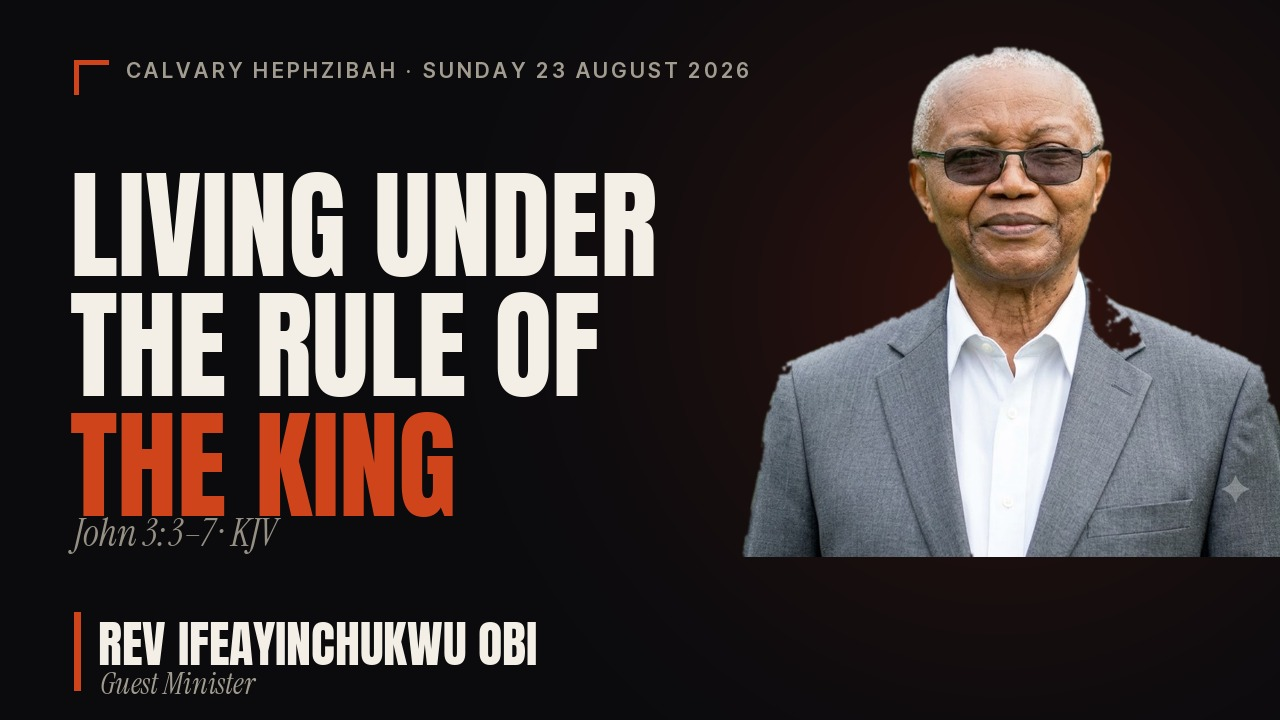
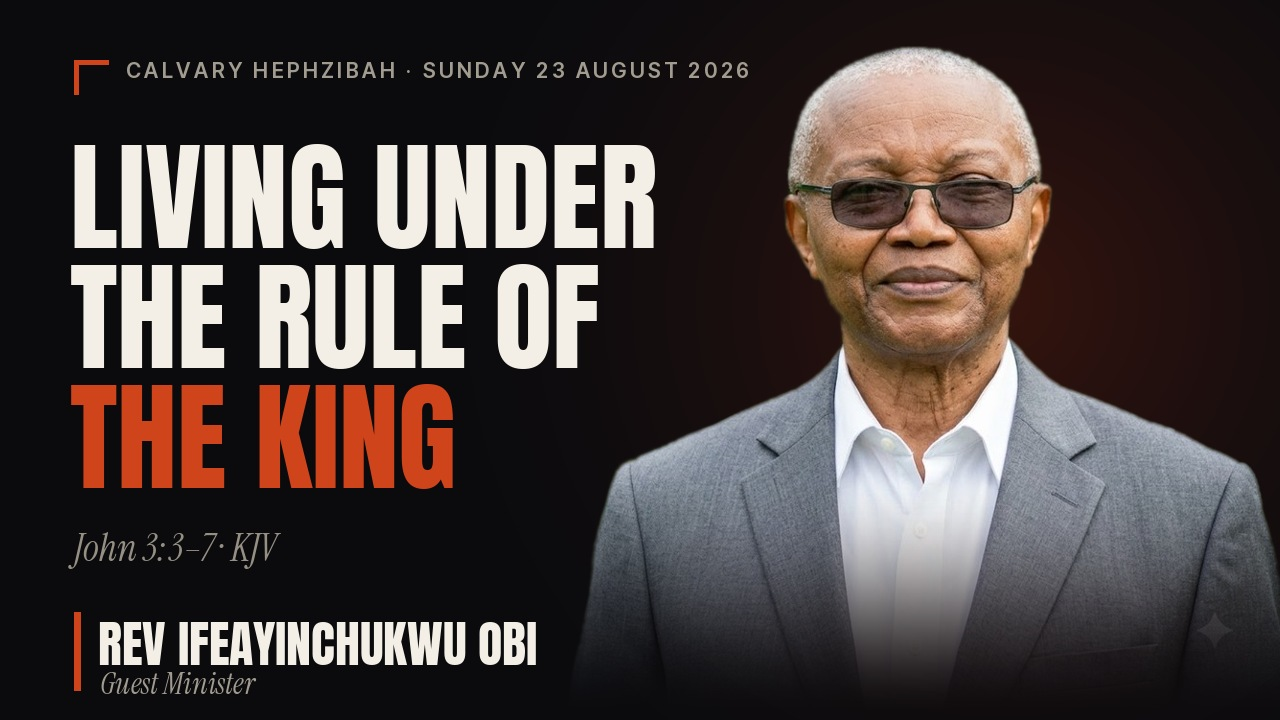
23 Aug 2026: Rework sermon thumbnail — fix scrubbed lapel, fade portrait to base, open up title/scripture gap

diff --git a/media-briefing-23-aug-2026.html b/media-briefing-23-aug-2026.html
@@ -10,8 +10,8 @@
     <meta property="og:site_name" content="Calvary Hephzibah Full Gospel Church">
     <meta property="og:title" content="Run Sheet &middot; Sunday 23rd August 2026">
     <meta property="og:description" content="Living Under The Rule Of The KING &middot; Rev Ifeayinchukwu Obi. Order of service, John 3:3-7, and the media checklist. Worship set to be confirmed.">
-    <meta property="og:image" content="https://calvaryhephzibah.co.uk/sermon-thumbnail-23-aug-2026.jpg?v=1">
-  <meta property="og:image:secure_url" content="https://calvaryhephzibah.co.uk/sermon-thumbnail-23-aug-2026.jpg?v=1">
+    <meta property="og:image" content="https://calvaryhephzibah.co.uk/sermon-thumbnail-23-aug-2026.jpg?v=2">
+  <meta property="og:image:secure_url" content="https://calvaryhephzibah.co.uk/sermon-thumbnail-23-aug-2026.jpg?v=2">
   <meta property="og:image:type" content="image/jpeg">
     <meta property="og:image:width" content="1280">
     <meta property="og:image:height" content="720">
@@ -20,7 +20,7 @@
     <meta name="twitter:card" content="summary_large_image">
     <meta name="twitter:title" content="Run Sheet &middot; Sunday 23rd August 2026">
     <meta name="twitter:description" content="Living Under The Rule Of The KING &middot; Rev Ifeayinchukwu Obi. Everything the media team needs before service.">
-    <meta name="twitter:image" content="https://calvaryhephzibah.co.uk/sermon-thumbnail-23-aug-2026.jpg?v=1">
+    <meta name="twitter:image" content="https://calvaryhephzibah.co.uk/sermon-thumbnail-23-aug-2026.jpg?v=2">
     <meta name="twitter:image:alt" content="Living Under The Rule Of The KING &middot; Rev Ifeayinchukwu Obi, Sunday 23 August 2026">
     <link rel="preconnect" href="https://fonts.googleapis.com">
     <link rel="preconnect" href="https://fonts.gstatic.com" crossorigin>
@@ -266,7 +266,7 @@
             <div class="serm-preacher">Rev Ifeayinchukwu Obi &middot; Guest Minister</div>
             <h3 class="serm-title">Living Under The Rule Of The KING</h3>
             <div style="font-size:13px;color:rgba(255,255,255,0.6);margin-bottom:14px;">Entering, Experiencing and Manifesting The Kingdom Of GOD &middot; John 3:3–7</div>
-            <img src="sermon-thumbnail-23-aug-2026.jpg?v=1" width="1280" height="720" loading="lazy" decoding="async" alt="Rev Ifeayinchukwu Obi — Living Under The Rule Of The KING" class="serm-thumb">
+            <img src="sermon-thumbnail-23-aug-2026.jpg?v=2" width="1280" height="720" loading="lazy" decoding="async" alt="Rev Ifeayinchukwu Obi — Living Under The Rule Of The KING" class="serm-thumb">
             <div class="serm-note"><span>💡</span><span>Display sermon thumbnail for 30 seconds as Rev Ifeayinchukwu Obi comes up to preach.</span></div>
         </div>
     </div>
